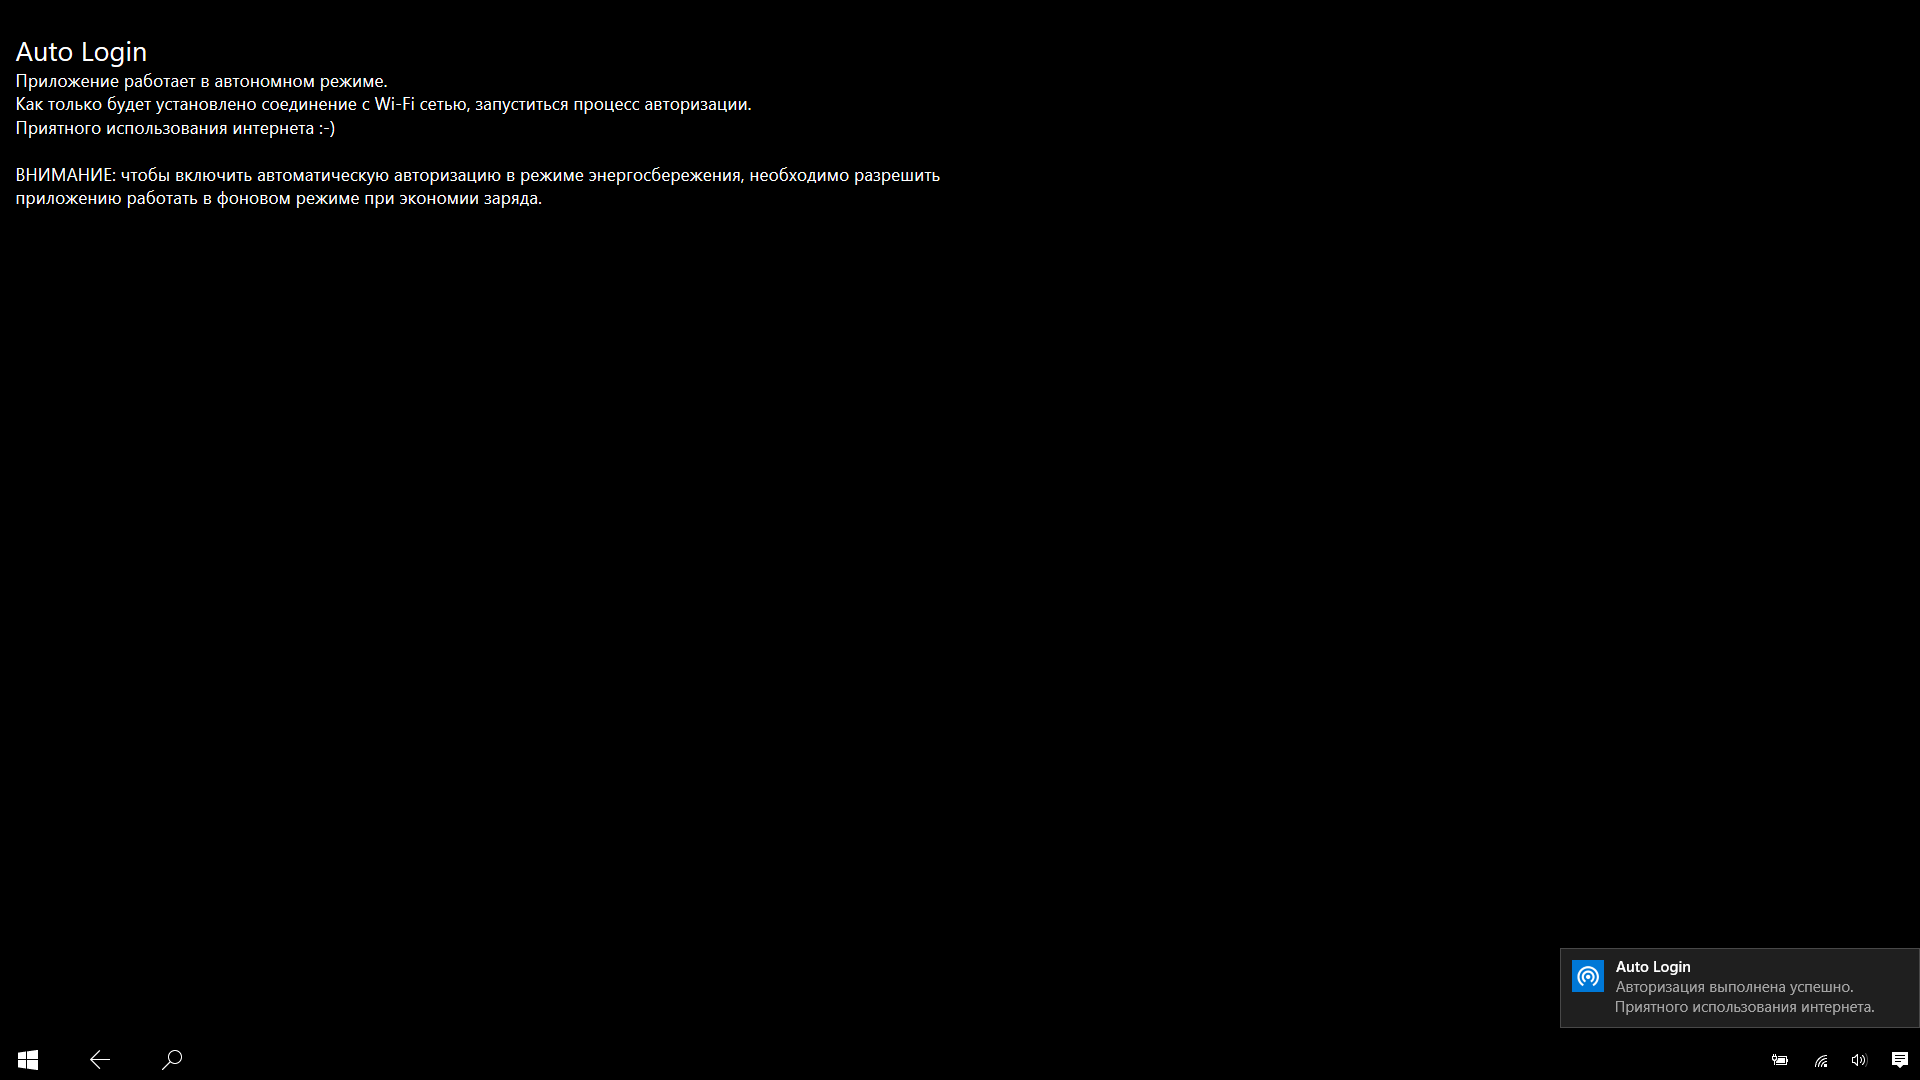
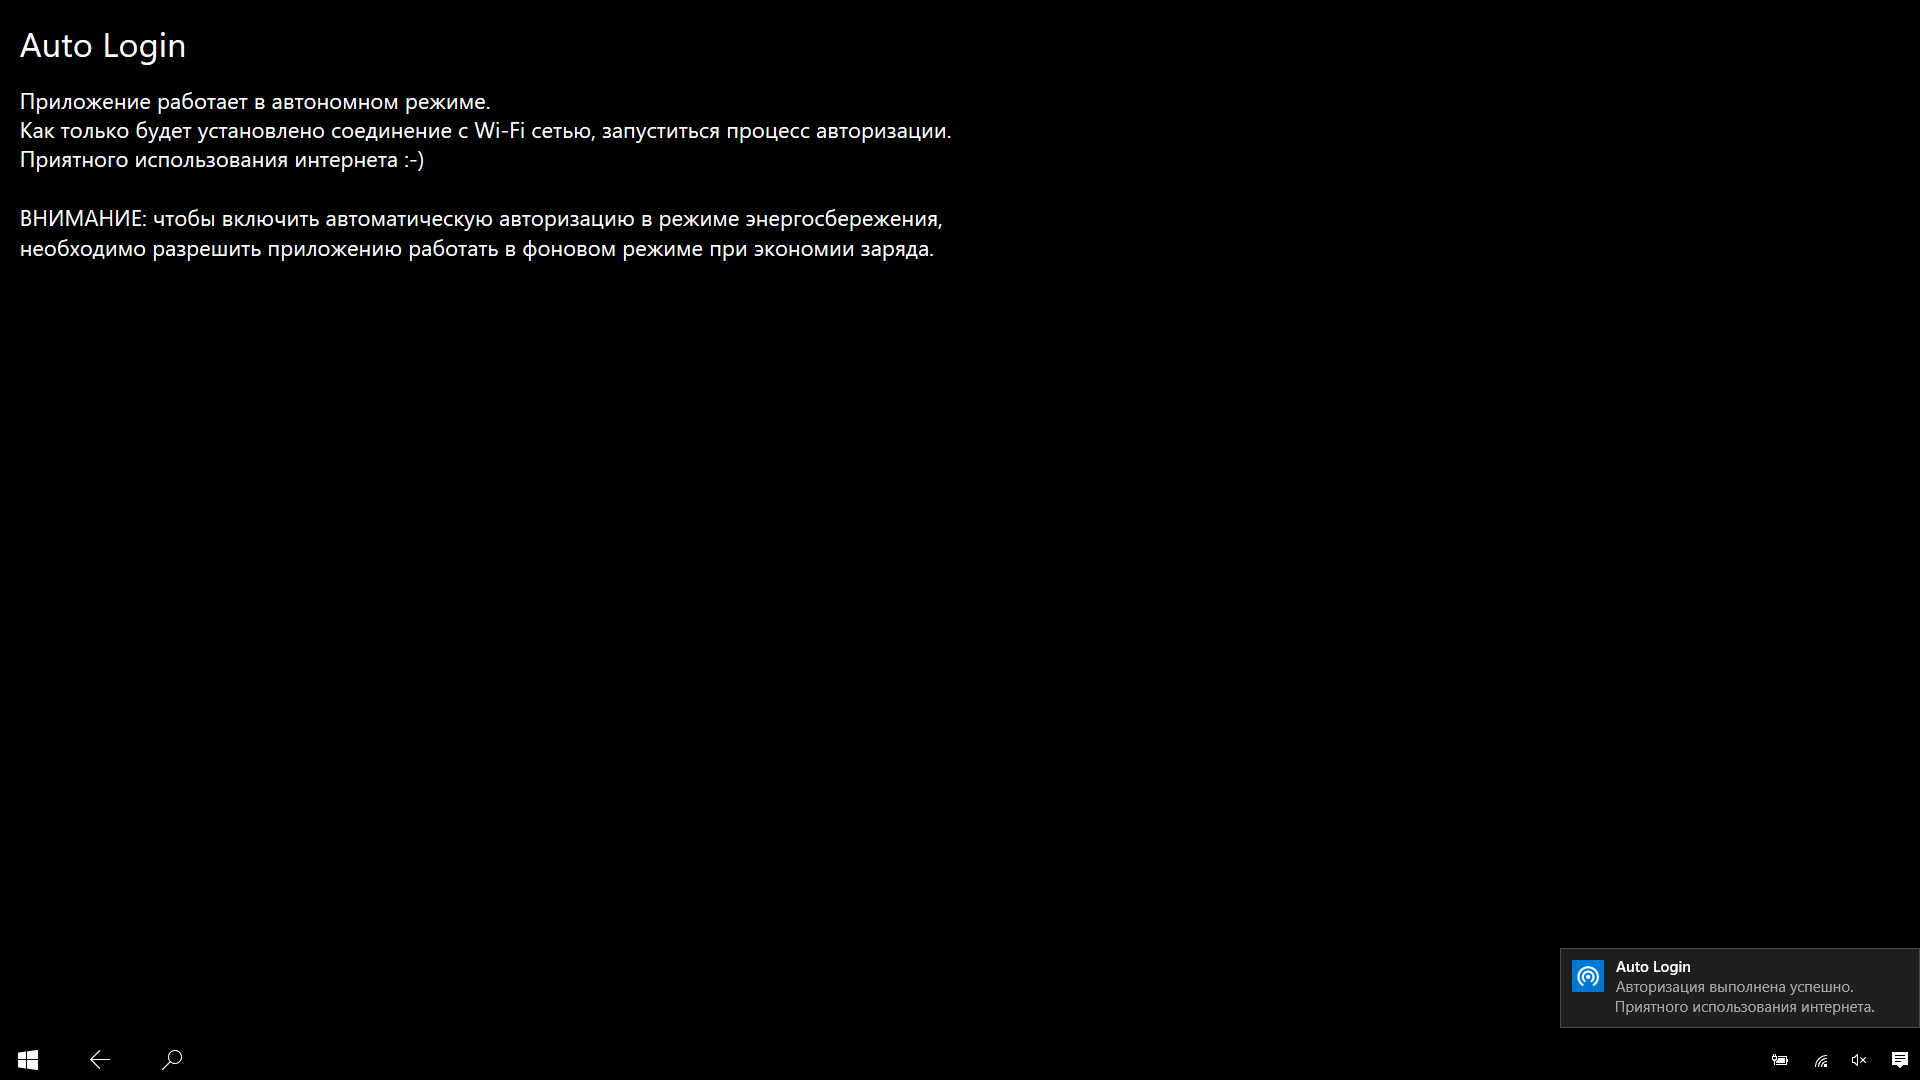
Сделал новые скриншоты Немного доработал масштабирование

Changed region(s): [[0.0, 0.0306, 0.5, 0.2444]]

diff --git a/Apps/AutoLogin.Shared/Implementations/Application.cpp b/Apps/AutoLogin.Shared/Implementations/Application.cpp
@@ -193,7 +193,7 @@ HRESULT Application::SetWindow(ABI::Windows::UI::Core::ICoreWindow* window) NOEX
 					_swapChain.Release();
 					_dwriteFactory.Release();
 				}
-				
+
 
 				return S_OK;
 			}
@@ -359,7 +359,19 @@ void Application::Draw() NOEXCEPT
 	FLOAT dpiX, dpiY;
 	_deviceContext->GetDpi(&dpiX, &dpiY);
 
-	auto multiplier = dpiX <= 144 ? 2.0f : 1.0f;
+	FLOAT multiplier;
+	if(dpiX >= 192)
+	{
+		multiplier = 1.0f;
+	}
+	else if(dpiX >= 144)
+	{
+		multiplier = 1.5f;
+	}
+	else
+	{
+		multiplier = 2.0f;
+	}
 	auto margin = 8.0f * multiplier;
 	auto width = min(size.width, size.height) - 2 * margin;
 
@@ -381,7 +393,7 @@ void Application::Draw() NOEXCEPT
 								   titleTextLayout.Get(),
 								   brush.Get());
 
-	_deviceContext->DrawTextLayout(Point2F(margin, margin + titleMetrics.height),
+	_deviceContext->DrawTextLayout(Point2F(margin, 2.0 * margin + titleMetrics.height),
 								   descriptionTextLayout.Get(),
 								   brush.Get());
 
@@ -459,7 +471,7 @@ Concurrency::task<void> Application::RegisterBackgroundTask() NOEXCEPT
 	}
 }
 
-MTL::ComPtr<IDWriteTextLayout> Application::GetTitleLayout(FLOAT fontSize, 
+MTL::ComPtr<IDWriteTextLayout> Application::GetTitleLayout(FLOAT fontSize,
 														   D2D1_SIZE_F size)
 {
 	using namespace std;
@@ -490,7 +502,7 @@ MTL::ComPtr<IDWriteTextLayout> Application::GetTitleLayout(FLOAT fontSize,
 	return titleTextLayout;
 }
 
-MTL::ComPtr<IDWriteTextLayout> Application::GetDescriptionLayout(FLOAT fontSize, 
+MTL::ComPtr<IDWriteTextLayout> Application::GetDescriptionLayout(FLOAT fontSize,
 																 D2D1_SIZE_F size)
 {
 	using namespace std;
